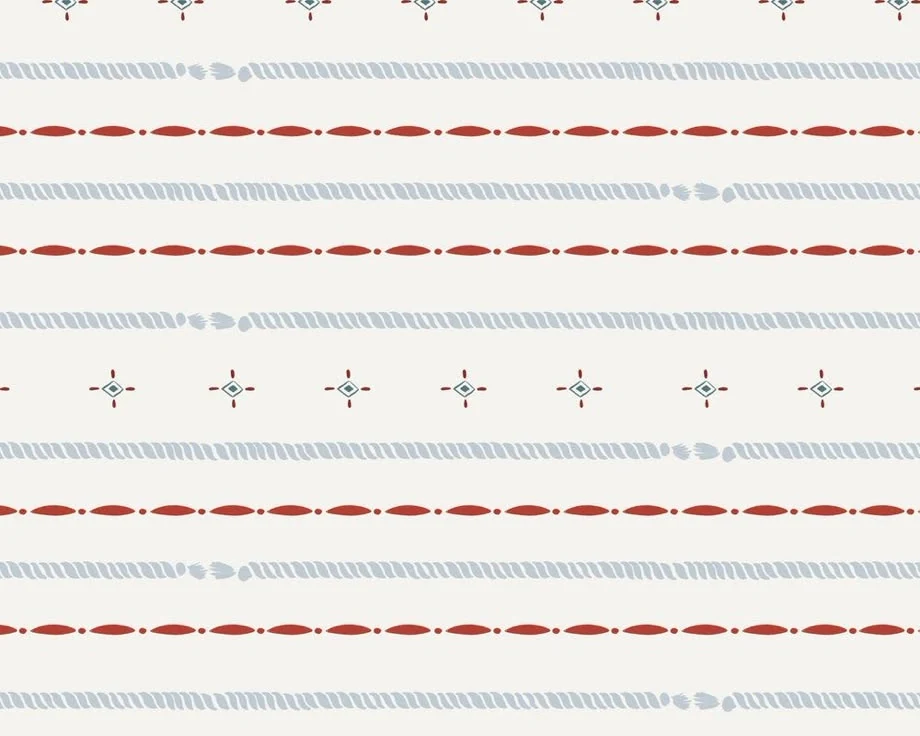
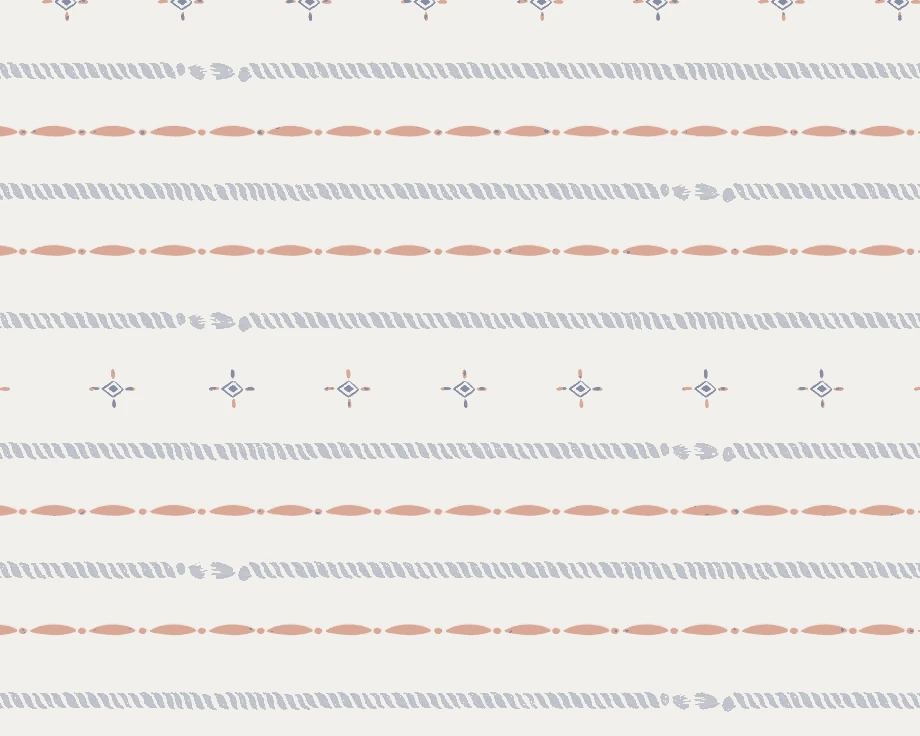
Aplica a nova paleta de cores pedida pela Paloma (#868EA6, #F2F0EB, #D9A796)
Troca as variaveis de cor no :root: fundo do site (--louca) para o creme
F2F0EB, cor principal (--cobalto) para o azul acinzentado 868EA6 e fundo
da capa (--bege) para o terracota D9A796. O padrao do cabecalho tambem
foi recolorido para bater com a nova paleta.

Como o 868EA6 puro nao tinha contraste suficiente para texto em cima do
bege e do fundo creme, foi criada uma variavel --cobalto-texto (a mesma
cor escurecida) usada so nos textos, mantendo a cor exata pedida em
bordas, preenchimentos e fundos.

Claude-Session: https://claude.ai/code/session_0198nECJP14G7iL7bmt3jAwE

diff --git a/index.html b/index.html
@@ -15,17 +15,19 @@
    Branco de louça, azul cobalto, cantos retos e moldura dupla
    ========================================================= */
 :root{
-  --louca:#f7f7f2;           /* branco de louça, fundo da página */
-  --louca-clara:#fdfdfa;     /* louça mais clara, fundo dos blocos */
-  --cobalto:#1f4e9c;         /* azul cobalto, cor principal */
-  --cobalto-escuro:#163a76;  /* cobalto fechado, hover dos botões */
-  --azul-claro:#9cc0ea;      /* azul claro do padrão e dos degradês */
-  --azul-fundo:#e7eefa;      /* azul bem lavado, faixas suaves */
-  --tinta:#16233b;           /* texto principal */
-  --tinta-media:#465777;     /* texto de apoio */
-  --fio:rgba(31,78,156,.13); /* fio fino usado em divisórias */
-  --bege:#eae8e2;             /* bege quente, fundo da capa */
-  --bege-ponto:rgba(60,50,35,.09); /* textura fina de papel sobre o bege */
+  /* paleta pedida pela Paloma: #868EA6, #F2F0EB (fundo do site) e #D9A796 */
+  --louca:#f2f0eb;           /* fundo do site */
+  --louca-clara:#fafaf8;     /* quase branco, fundo dos blocos */
+  --cobalto:#868ea6;         /* cor principal, azul acinzentado */
+  --cobalto-escuro:#6e7488;  /* mais fechado, hover dos botões */
+  --cobalto-texto:#3c404b;   /* a cor principal escurecida, só pra texto: em cima do bege e do fundo do site, a cor principal pura não tinha contraste suficiente pra ler bem */
+  --azul-claro:#b9bdcb;      /* tom claro da cor principal, pro padrão e os degradês */
+  --azul-fundo:#ecedf1;      /* lavagem bem clara da cor principal */
+  --tinta:#2b2d35;           /* texto principal (a cor principal bem escurecida) */
+  --tinta-media:#5c5f6b;     /* texto de apoio */
+  --fio:rgba(134,142,166,.22); /* fio fino usado em divisórias */
+  --bege:#d9a796;             /* terracota, fundo da capa */
+  --bege-ponto:rgba(50,30,20,.08); /* textura fina de papel sobre o terracota */
   --topo:76px;               /* altura do menu fixo */
   --gutter:clamp(16px,5vw,48px);
 }
@@ -70,7 +72,7 @@ h1,h2,h3{margin:0;font-family:"Playfair Display",Georgia,serif;font-weight:700;l
 /* ===== rótulo em itálico com fio embaixo ===== */
 .rotulo{
   font-family:"Playfair Display",Georgia,serif;
-  font-style:italic;font-size:1.02rem;color:var(--cobalto);
+  font-style:italic;font-size:1.02rem;color:var(--cobalto-texto);
   display:inline-block;padding-bottom:6px;margin-bottom:20px;
   border-bottom:1px solid var(--cobalto);letter-spacing:.02em;
 }
@@ -86,7 +88,7 @@ h1,h2,h3{margin:0;font-family:"Playfair Display",Georgia,serif;font-weight:700;l
   transition:background .2s ease,color .2s ease,border-color .2s ease;
 }
 .btn:hover{background:var(--cobalto-escuro);border-color:var(--cobalto-escuro)}
-.btn--linha{background:transparent;color:var(--cobalto)}
+.btn--linha{background:transparent;color:var(--cobalto-texto)}
 .btn--linha:hover{background:var(--cobalto);color:#fff}
 
 /* ===== menu fixo ===== */
@@ -102,7 +104,7 @@ h1,h2,h3{margin:0;font-family:"Playfair Display",Georgia,serif;font-weight:700;l
 .marca-topo{font-family:"Playfair Display",Georgia,serif;font-weight:700;font-size:1.22rem;text-decoration:none;letter-spacing:.01em}
 .menu{display:flex;align-items:center;gap:26px}
 .menu a{font-size:.94rem;letter-spacing:.04em;text-decoration:none;padding:6px 0;border-bottom:1px solid transparent;transition:color .2s ease,border-color .2s ease}
-.menu a:hover{color:var(--cobalto);border-bottom-color:var(--cobalto)}
+.menu a:hover{color:var(--cobalto-texto);border-bottom-color:var(--cobalto)}
 .hamburguer{display:none;width:46px;height:46px;border:2px solid var(--cobalto);background:transparent;cursor:pointer;padding:0;place-items:center}
 .hamburguer span{display:block;width:22px;height:2px;background:var(--cobalto);margin:4px auto;transition:transform .25s ease,opacity .25s ease}
 .hamburguer[aria-expanded="true"] span:nth-child(1){transform:translateY(6px) rotate(45deg)}
@@ -130,7 +132,7 @@ h1,h2,h3{margin:0;font-family:"Playfair Display",Georgia,serif;font-weight:700;l
 .capa-numeros{display:flex;flex-wrap:wrap;gap:0;margin-top:46px;border-top:1px solid var(--cobalto);border-bottom:1px solid var(--cobalto)}
 .capa-numeros li{flex:1 1 130px;padding:20px 18px;border-right:1px solid var(--fio)}
 .capa-numeros li:last-child{border-right:0}
-.capa-numeros b{display:block;font-family:"Playfair Display",Georgia,serif;font-weight:700;font-size:clamp(1.7rem,3.4vw,2.3rem);color:var(--cobalto);line-height:1}
+.capa-numeros b{display:block;font-family:"Playfair Display",Georgia,serif;font-weight:700;font-size:clamp(1.7rem,3.4vw,2.3rem);color:var(--cobalto-texto);line-height:1}
 .capa-numeros span{font-size:.86rem;letter-spacing:.06em;text-transform:uppercase;color:var(--tinta-media)}
 
 /* faixa fina com os nomes das marcas */
@@ -145,7 +147,7 @@ h1,h2,h3{margin:0;font-family:"Playfair Display",Georgia,serif;font-weight:700;l
 .promessas{margin-top:30px;display:grid;gap:16px}
 .promessas li{display:flex;gap:14px;align-items:flex-start}
 .promessas li::before{content:"";flex:0 0 auto;width:12px;height:12px;margin-top:9px;background:var(--cobalto);box-shadow:0 0 0 3px var(--louca-clara),0 0 0 4px var(--azul-claro)}
-.assinatura{margin-top:36px;padding-top:22px;border-top:1px solid var(--cobalto);font-family:"Playfair Display",Georgia,serif;font-style:italic;font-size:1.6rem;color:var(--cobalto)}
+.assinatura{margin-top:36px;padding-top:22px;border-top:1px solid var(--cobalto);font-family:"Playfair Display",Georgia,serif;font-style:italic;font-size:1.6rem;color:var(--cobalto-texto)}
 
 /* ===== blocos de mídia com degradê ===== */
 .midia{
@@ -173,22 +175,22 @@ h1,h2,h3{margin:0;font-family:"Playfair Display",Georgia,serif;font-weight:700;l
 .destaque-capa{border:1px solid var(--cobalto);position:relative}
 .destaque-capa .legenda{position:absolute;left:14px;right:14px;bottom:14px}
 .destaque-texto{padding:22px 18px 20px}
-.destaque-valor{font-family:"Playfair Display",Georgia,serif;font-weight:700;font-size:2.1rem;color:var(--cobalto);line-height:1}
+.destaque-valor{font-family:"Playfair Display",Georgia,serif;font-weight:700;font-size:2.1rem;color:var(--cobalto-texto);line-height:1}
 .destaque-rotulo{font-size:.82rem;letter-spacing:.1em;text-transform:uppercase;color:var(--tinta-media)}
 .destaque-titulo{font-size:1.25rem;margin-top:16px}
 .destaque-contexto{margin-top:8px;color:var(--tinta-media);font-size:.95rem}
 
 /* ===== 4. TRABALHOS POR NICHO, EM CARROSSEL ===== */
 .filtros{display:flex;flex-wrap:wrap;gap:10px;margin-top:36px}
-.filtro{padding:10px 20px;border:2px solid var(--cobalto);background:transparent;color:var(--cobalto);cursor:pointer;font-size:.85rem;letter-spacing:.08em;text-transform:uppercase;transition:background .2s ease,color .2s ease}
+.filtro{padding:10px 20px;border:2px solid var(--cobalto);background:transparent;color:var(--cobalto-texto);cursor:pointer;font-size:.85rem;letter-spacing:.08em;text-transform:uppercase;transition:background .2s ease,color .2s ease}
 .filtro[aria-pressed="true"]{background:var(--cobalto);color:#fff}
 .carrossel{margin-top:46px}
 .carrossel[hidden]{display:none}
 .carrossel-topo{display:flex;flex-wrap:wrap;align-items:flex-end;justify-content:space-between;gap:16px}
-.carrossel-nome{font-family:"Playfair Display",Georgia,serif;font-style:italic;font-weight:600;font-size:1.4rem;color:var(--cobalto);padding-bottom:8px;border-bottom:1px solid var(--cobalto)}
+.carrossel-nome{font-family:"Playfair Display",Georgia,serif;font-style:italic;font-weight:600;font-size:1.4rem;color:var(--cobalto-texto);padding-bottom:8px;border-bottom:1px solid var(--cobalto)}
 .carrossel-setas{display:flex;gap:10px}
 .carrossel-setas[hidden]{display:none}
-.seta{width:48px;height:48px;border:2px solid var(--cobalto);background:transparent;color:var(--cobalto);cursor:pointer;display:grid;place-items:center;font-size:1rem;line-height:1;transition:background .2s ease,color .2s ease}
+.seta{width:48px;height:48px;border:2px solid var(--cobalto);background:transparent;color:var(--cobalto-texto);cursor:pointer;display:grid;place-items:center;font-size:1rem;line-height:1;transition:background .2s ease,color .2s ease}
 .seta:hover:not(:disabled){background:var(--cobalto);color:#fff}
 .seta:disabled{opacity:.3;cursor:default}
 .trilho-videos{display:flex;gap:20px;overflow-x:auto;overscroll-behavior-x:contain;scroll-snap-type:x mandatory;padding:22px 4px 18px;scrollbar-width:thin;scrollbar-color:var(--cobalto) var(--azul-fundo)}
@@ -200,11 +202,11 @@ h1,h2,h3{margin:0;font-family:"Playfair Display",Georgia,serif;font-weight:700;l
 .video-quadro iframe{position:absolute;inset:0;width:100%;height:100%;border:0;display:block}
 .video-carregando{position:absolute;inset:0;display:grid;place-items:center;color:#fff;font-size:.72rem;letter-spacing:.16em;text-transform:uppercase;background:linear-gradient(145deg,var(--azul-fundo) 0%,var(--azul-claro) 48%,var(--cobalto) 100%)}
 .video-abrir{position:absolute;inset:0;z-index:2;width:100%;height:100%;padding:0;border:0;background:transparent;cursor:pointer;display:flex;align-items:flex-end;justify-content:center}
-.selo-som{margin-bottom:14px;padding:8px 13px;background:var(--louca-clara);border:2px solid var(--cobalto);color:var(--cobalto);font-size:.68rem;letter-spacing:.1em;text-transform:uppercase;font-weight:500;transition:background .2s ease,color .2s ease}
+.selo-som{margin-bottom:14px;padding:8px 13px;background:var(--louca-clara);border:2px solid var(--cobalto);color:var(--cobalto-texto);font-size:.68rem;letter-spacing:.1em;text-transform:uppercase;font-weight:500;transition:background .2s ease,color .2s ease}
 .video-abrir:hover .selo-som,.video-abrir:focus-visible .selo-som{background:var(--cobalto);color:#fff}
 .video-texto{padding:16px 14px 12px}
-.video-destaque{font-size:.9rem;font-weight:600;color:var(--cobalto);margin-bottom:3px}
-.video-marca{font-size:.76rem;letter-spacing:.12em;text-transform:uppercase;color:var(--cobalto)}
+.video-destaque{font-size:.9rem;font-weight:600;color:var(--cobalto-texto);margin-bottom:3px}
+.video-marca{font-size:.76rem;letter-spacing:.12em;text-transform:uppercase;color:var(--cobalto-texto)}
 .video-titulo{font-size:1.05rem;margin-top:5px}
 
 /* ===== visor que abre o vídeo com som ===== */
@@ -217,7 +219,7 @@ h1,h2,h3{margin:0;font-family:"Playfair Display",Georgia,serif;font-weight:700;l
 .visor-legenda .video-marca{color:var(--azul-claro)}
 .visor-legenda h3{color:#fff;font-size:1.15rem;margin-top:4px}
 .visor-fechar{position:fixed;top:16px;right:16px;width:46px;height:46px;border:2px solid #fff;background:transparent;color:#fff;font-size:1.1rem;line-height:1;cursor:pointer}
-.visor-fechar:hover{background:#fff;color:var(--cobalto)}
+.visor-fechar:hover{background:#fff;color:var(--cobalto-texto)}
 
 /* ===== 5. SERVIÇOS ===== */
 .servicos-grade{display:grid;grid-template-columns:repeat(3,1fr);gap:clamp(18px,2.6vw,30px);margin-top:46px}
@@ -228,22 +230,22 @@ h1,h2,h3{margin:0;font-family:"Playfair Display",Georgia,serif;font-weight:700;l
 /* ===== 6. NÚMEROS E DEPOIMENTOS ===== */
 .metricas{display:grid;grid-template-columns:repeat(4,1fr);gap:clamp(16px,2.4vw,26px);margin-top:46px}
 .metrica{text-align:center;padding:30px 18px}
-.metrica b{display:block;font-family:"Playfair Display",Georgia,serif;font-weight:700;font-size:clamp(2.1rem,4.4vw,2.9rem);color:var(--cobalto);line-height:1}
+.metrica b{display:block;font-family:"Playfair Display",Georgia,serif;font-weight:700;font-size:clamp(2.1rem,4.4vw,2.9rem);color:var(--cobalto-texto);line-height:1}
 .metrica span{display:block;margin-top:8px;font-size:.84rem;letter-spacing:.08em;text-transform:uppercase;color:var(--tinta-media)}
-.subtitulo{margin-top:64px;font-family:"Playfair Display",Georgia,serif;font-style:italic;font-size:1.35rem;color:var(--cobalto);padding-bottom:8px;border-bottom:1px solid var(--cobalto);display:inline-block}
+.subtitulo{margin-top:64px;font-family:"Playfair Display",Georgia,serif;font-style:italic;font-size:1.35rem;color:var(--cobalto-texto);padding-bottom:8px;border-bottom:1px solid var(--cobalto);display:inline-block}
 .resultados{display:grid;grid-template-columns:repeat(3,1fr);gap:clamp(18px,2.6vw,30px);margin-top:26px}
-.resultado b{display:block;font-family:"Playfair Display",Georgia,serif;font-weight:700;font-size:1.9rem;color:var(--cobalto);line-height:1}
+.resultado b{display:block;font-family:"Playfair Display",Georgia,serif;font-weight:700;font-size:1.9rem;color:var(--cobalto-texto);line-height:1}
 .resultado .marca{font-size:.78rem;letter-spacing:.12em;text-transform:uppercase;color:var(--tinta-media);margin-bottom:12px}
 .resultado p{margin-top:10px;color:var(--tinta-media);font-size:.95rem}
 .depoimentos{display:grid;grid-template-columns:repeat(2,1fr);gap:clamp(18px,2.6vw,30px);margin-top:26px}
 .depoimento blockquote{margin:0;font-family:"Playfair Display",Georgia,serif;font-style:italic;font-size:1.12rem;line-height:1.5}
-.depoimento figcaption{margin-top:18px;padding-top:14px;border-top:1px solid var(--fio);font-size:.85rem;letter-spacing:.08em;text-transform:uppercase;color:var(--cobalto)}
+.depoimento figcaption{margin-top:18px;padding-top:14px;border-top:1px solid var(--fio);font-size:.85rem;letter-spacing:.08em;text-transform:uppercase;color:var(--cobalto-texto)}
 .depoimento figcaption i{font-style:normal;display:block;color:var(--tinta-media);letter-spacing:.04em;text-transform:none;font-size:.92rem;margin-top:2px}
 
 /* ===== 7. CONTATO ===== */
 .contato-grade{display:grid;grid-template-columns:1.05fr .95fr;gap:clamp(28px,5vw,60px);align-items:start;margin-top:46px}
 .campo{display:block;margin-bottom:20px}
-.campo span{display:block;font-size:.82rem;letter-spacing:.1em;text-transform:uppercase;color:var(--cobalto);margin-bottom:8px}
+.campo span{display:block;font-size:.82rem;letter-spacing:.1em;text-transform:uppercase;color:var(--cobalto-texto);margin-bottom:8px}
 .campo input,.campo textarea{width:100%;padding:13px 14px;border:2px solid var(--cobalto);background:var(--louca-clara);border-radius:0;font-weight:300}
 .campo textarea{min-height:130px;resize:vertical}
 .aviso-form{margin-top:16px;padding:16px 18px;border:2px solid var(--cobalto);background:var(--azul-fundo);font-size:.95rem}
@@ -251,7 +253,7 @@ h1,h2,h3{margin:0;font-family:"Playfair Display",Georgia,serif;font-weight:700;l
 .canais{display:grid;gap:14px;margin-top:26px}
 .canais .btn{width:100%}
 .dado-contato{display:flex;justify-content:space-between;gap:16px;padding:14px 0;border-bottom:1px solid var(--fio);font-size:.95rem}
-.dado-contato b{font-weight:500;color:var(--cobalto);letter-spacing:.06em;text-transform:uppercase;font-size:.8rem}
+.dado-contato b{font-weight:500;color:var(--cobalto-texto);letter-spacing:.06em;text-transform:uppercase;font-size:.8rem}
 
 /* ===== 8. RODAPÉ ===== */
 .rodape{background:var(--cobalto);color:#fff;border-top:3px solid var(--cobalto);margin-top:20px}
@@ -266,7 +268,7 @@ h1,h2,h3{margin:0;font-family:"Playfair Display",Georgia,serif;font-weight:700;l
 .captura{position:fixed;inset:0;z-index:120;display:grid;place-items:center;padding:20px;background:rgba(22,35,59,.62)}
 .captura[hidden]{display:none}
 .captura-card{position:relative;width:min(460px,100%);max-height:92vh;overflow-y:auto;background:var(--louca-clara);border:3px solid var(--cobalto);box-shadow:inset 0 0 0 5px var(--louca-clara),inset 0 0 0 6px var(--cobalto);padding:38px 30px 30px}
-.captura-fechar{position:absolute;top:12px;right:12px;width:38px;height:38px;border:2px solid var(--cobalto);background:transparent;color:var(--cobalto);font-size:1.15rem;cursor:pointer;line-height:1}
+.captura-fechar{position:absolute;top:12px;right:12px;width:38px;height:38px;border:2px solid var(--cobalto);background:transparent;color:var(--cobalto-texto);font-size:1.15rem;cursor:pointer;line-height:1}
 .captura h2{font-size:1.65rem;margin-bottom:10px}
 .captura p{color:var(--tinta-media);font-size:.96rem;margin-bottom:22px}
 
